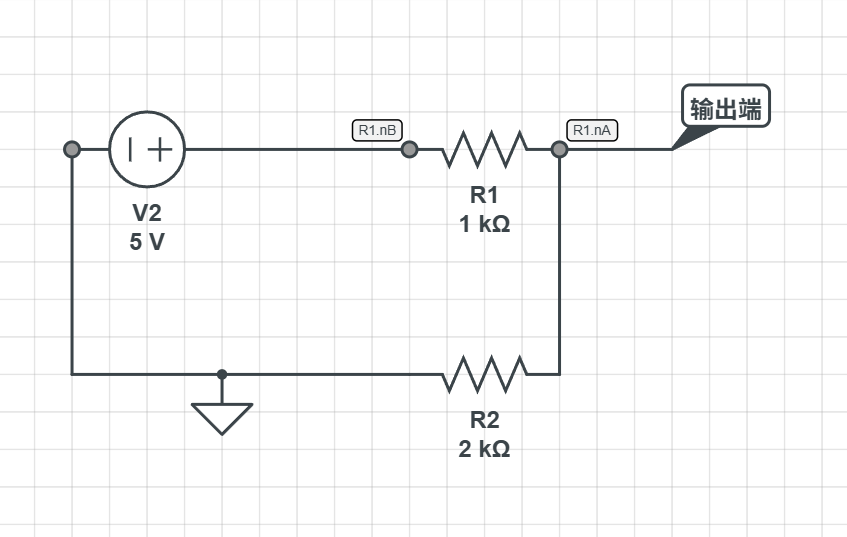
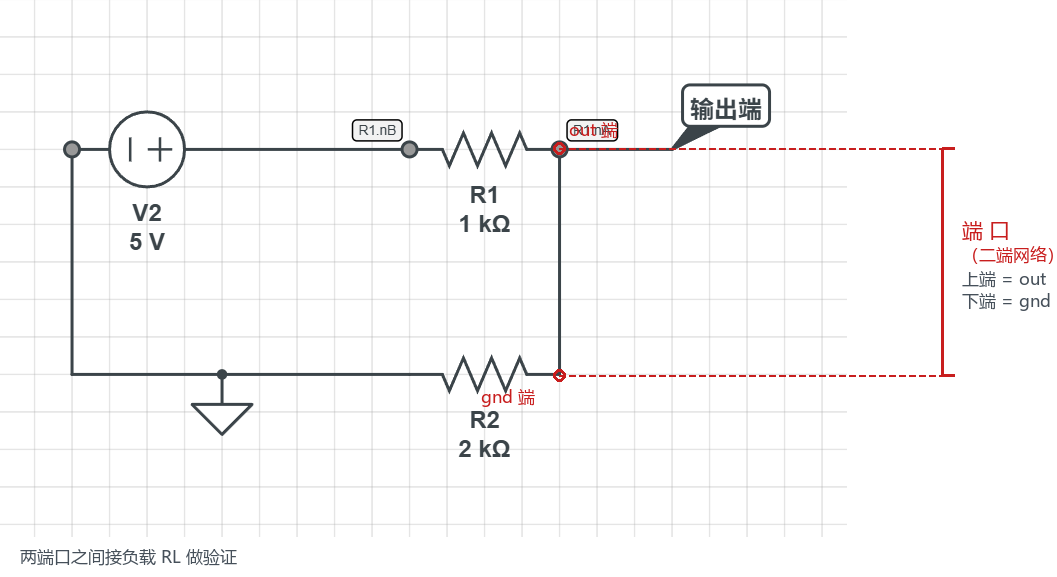
戴维南原电路图补上「端口」标注，并核对任务书要求的全部图纸
任务书对电路②的要求是「自己画的含源二端网络图（标注端口）」。
原图只标了『输出端』三个字指向一根线，没有标出『端口 = 两个端子』这个概念，
严格说不算完整标注了端口。

处理：在原图右侧扩展留白，用红色标出端口括号，明确标出
  上端 = out（R1 右端与 R2 上端的交汇节点）
  下端 = gnd（接地轨）
两个端子位置由像素分析精确确定（559,148）与（559,375），
原图内容零像素丢失（已用脚本比对确认）。

同时核对了任务书要求的每一类图是否齐备，并在 README 第五节新增
『任务书要求的三类图，分别对应哪个文件』对照表，把
电路图（自己画）/ 仿真波形图（脚本生成）/ 对比表（脚本生成）三类分开列清楚。

核对结果：15 项图纸与数据全部存在，无缺失；三张手算 PDF 齐全；
自画的 6 张电路图未被改动（仅补了端口标注）。

Changed region(s): [[0.0614, 0.1192, 1.0, 0.8641], [0.0, 0.9534, 0.2456, 0.9832], [0.4298, 0.3277, 0.4911, 0.4171]]

diff --git a/README.md b/README.md
@@ -1005,7 +1005,28 @@ Seange/
 ├── *_calc.pdf                三个电路的手算过程
 ├── *_circuit.png 等          自己画的电路图、直流通路、小信号等效模型
 └── LICENSE  README.md  .gitignore
-```
+
+## 任务书要求的三类图，分别对应哪个文件
+
+任务书对每个电路都要求「自己画的电路图 + 仿真波形图 + 对比表」，
+下面这张表说明每一样落在哪个文件上：
+
+| 类别 | 用在哪个电路 | 文件 | 来源 |
+|---|---|---|---|
+| **电路图**（自己画） | ① RC | `rc_lowpass_circuit.png` | 画图软件绘制 |
+| | ② 戴维南 | `thevenin_circuit_original.png`（含源二端网络）<br>`thevenin_circuit_equivalent.png`（等效电路） | 画图软件绘制 |
+| | ③ NMOS | `nmos_circuit.png`（主电路）<br>`nmos_dc_path.png`（直流通路）<br>`nmos_small_signal.png`（小信号等效模型） | 画图软件绘制 |
+| **仿真波形图** | ① RC | `rc_transient.png`（方波瞬态）<br>`rc_bode.png`（波特图：幅频 + 相频） | 脚本生成 |
+| | ② 戴维南 | `thevenin.png`（电压对比）<br>`thevenin_load_current.png`（电流对比） | 脚本生成 |
+| | ③ NMOS | `nmos_transient.png`（输入/输出波形，含反相标注） | 脚本生成 |
+| **对比表** | ① RC | `rc_table.txt`（τ 与 fc 手算 vs 仿真） | 脚本生成 |
+| | ② 戴维南 | `thevenin_table.txt`（V_oc / I_sc / 负载验证 三张表） | 脚本生成 |
+| | ③ NMOS | `nmos_table.txt`（工作点 / 小信号 / 误差归因 三张表） | 脚本生成 |
+
+> 电路图是**自己画的**（用画图软件，任务书允许"手绘拍照 / 画图软件均可"）；
+> 波形图和对比表是**脚本跑出来的真实数据**，不是手绘的示意图。
+> 另外还有 `thevenin.png`、`rc_lowpass.png` 等早期版本的图，保留作为对照。
+
 
 ### 为什么要拆成三个文件、又为什么要合成一个
 
